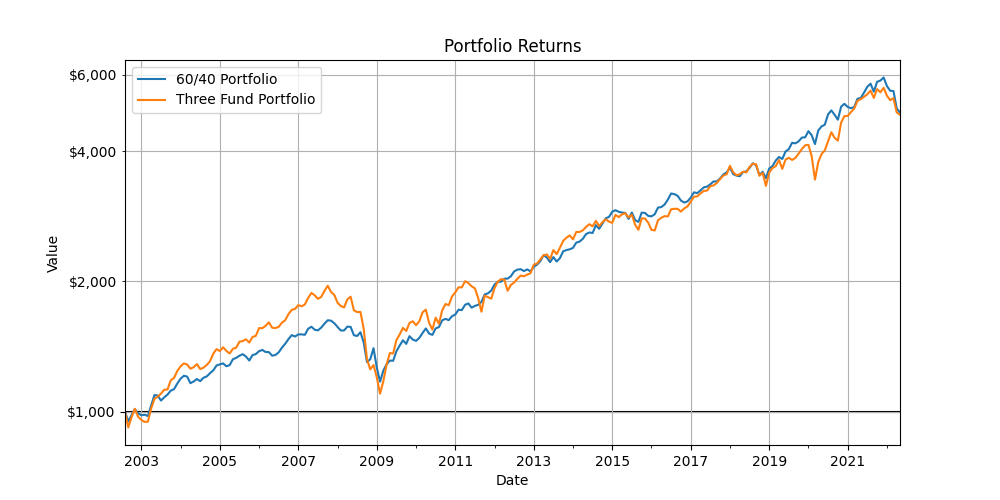
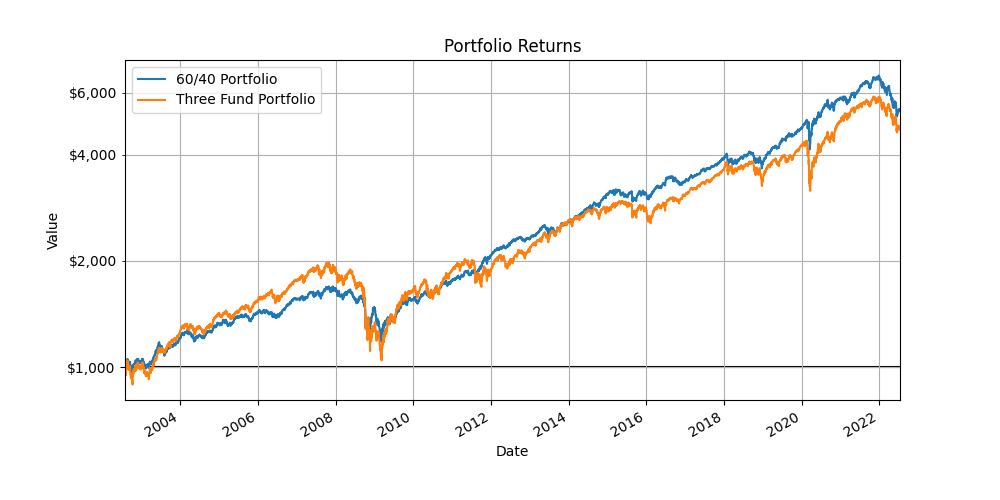
change market data from monthly to daily, add daily and weekly rebalancing

Changed region(s): [[0.062, 0.15, 0.899, 0.99], [0.031, 0.42, 0.124, 0.57], [0.062, 0.12, 0.124, 0.21]]

diff --git a/testfolio/backtest.py b/testfolio/backtest.py
@@ -2,9 +2,9 @@ import yfinance as yf
 import pandas as pd
 import numpy as np
 import pandas_datareader.data as web
-from testfolio.utils import _cagr, _rebalance, _sharpe, _sortino
+from testfolio.utils import _cagr, _rebalance, _sharpe, _sortino, _interpolate_inflation, _is_rebalance_date
 
-REBALANCE_INTERVALS = ('m', 'q', 'y', 'no')
+REBALANCE_INTERVALS = ('d', 'w', 'm', 'q', 'y', 'no')
 ALIAS_TO_TICKER = {
     'S&P 500': 'VFINX',
     'Long Term Treasury': 'VUSTX',
@@ -36,7 +36,7 @@ class Backtest(object):
         tickers: List of strings containing tickers in the backtest.
         adj_inflation: True if prices are adjusted for inflation relative to start_date, False if prices are nominal
             NOTE - Inflation data may not be available for the most recent month, in which case there will be no
-            adjustment for the most recent data point.
+            adjustment for the most recent data points.
         start_date: String representing the start date of the backtest. Defaults to the earliest possible date for which
                     data for all tickers is available, if not specified.
         end_date: Ending date of the backtest. Defaults to today if not specified
@@ -91,7 +91,7 @@ class Backtest(object):
         if start_date:
             start_date = max(start_date, '1985-01-01')
 
-        history = yf.download(self.tickers, interval='1mo', start=start_date, end=end_date, progress=False)
+        history = yf.download(self.tickers, interval='1d', start=start_date, end=end_date, progress=False)
         prices = history['Adj Close' if invest_dividends else 'Close']
 
         if len(self.tickers) == 1:
@@ -110,13 +110,13 @@ class Backtest(object):
         self.end_date = prices.index[-1].strftime('%Y-%m-%d')
 
         if self.start_date >= self.end_date:
-            raise ValueError('Time between start date and end date must be more than 1 month.')
+            raise ValueError('Time between start date and end date must be more than 1 day.')
 
         # Divide each row by the one above it to find percent change
-        monthly_change = prices / prices.shift(1)
+        daily_change = prices / prices.shift(1)
 
         # Initialize starting values
-        hist = pd.DataFrame(index=monthly_change.index, columns=self.tickers + ['Total', 'Drawdown'])
+        hist = pd.DataFrame(index=daily_change.index, columns=self.tickers + ['Total', 'Drawdown'])
         for ticker in self.tickers:
             hist.at[self.start_date, ticker] = self.allocation[ticker] * self.start_val
         hist.at[self.start_date, 'Total'] = self.start_val
@@ -124,24 +124,23 @@ class Backtest(object):
 
         # Download inflation data if necessary
         inflation = web.DataReader('CPIAUCSL', 'fred', self.start_date, self.end_date) if adj_inflation else None
+        inflation = _interpolate_inflation(hist.index, inflation) if adj_inflation else None
 
         # Populate portfolio history
-        prev_date = self.start_date
+        prev_date = pd.to_datetime(self.start_date)
         max_total = self.start_val
-        for date, row in monthly_change.iloc[1:].iterrows():
+        for date, row in daily_change.iloc[1:].iterrows():
             for ticker in self.tickers:
                 hist.at[date, ticker] = hist.at[prev_date, ticker] * row[ticker]
 
                 # Adjust for inflation if necessary
-                if adj_inflation and date in inflation.index:
+                if adj_inflation and prev_date in inflation.index and date in inflation.index:
                     hist.at[date, ticker] *= inflation.at[prev_date, 'CPIAUCSL'] / inflation.at[date, 'CPIAUCSL']
 
             hist.at[date, 'Total'] = hist.loc[date].sum()
 
             # Rebalancing
-            if (self.rebalance == 'm' or
-                    self.rebalance == 'q' and date.is_quarter_start or
-                    self.rebalance == 'y' and date.is_year_start):
+            if _is_rebalance_date(prev_date, date, self.rebalance):
                 _rebalance(hist, date, self.allocation)
 
             # Drawdowns
@@ -157,11 +156,11 @@ class Backtest(object):
         self.max_drawdown = min(hist['Drawdown'])
         self.end_val = hist.loc[self.end_date]['Total']
         self.cagr = _cagr(self.start_val, self.end_val, self.start_date, self.end_date)
-        self.std = np.std(hist['Total'].pct_change().dropna()) * (12 ** 0.5)
+        self.std = np.std(hist['Total'].pct_change().dropna()) * (252 ** 0.5)
 
         # Calculate excess return using 3-month T-Bill as risk-free return
-        tbill_return = yf.download('^IRX', interval='1mo', start=self.start_date, end=self.end_date,
-                                   progress=False)['Close'] * 0.01 / 12  # Don't forget to convert to monthly rate
+        tbill_return = yf.download('^IRX', interval='1d', start=self.start_date, end=self.end_date,
+                                   progress=False)['Close'] * 0.01 / 252  # Don't forget to convert to daily rate
         if adj_inflation:
             tbill_return -= inflation['CPIAUCSL'].pct_change()
 
@@ -171,7 +170,7 @@ class Backtest(object):
         self.sortino = _sortino(excess_return)
 
         # Calculate market correlation using S&P 500
-        market_history = yf.download('VFINX', interval='1mo', start=self.start_date,
+        market_history = yf.download('VFINX', interval='1d', start=self.start_date,
                                      progress=False)['Adj Close'].dropna().pct_change().dropna()
         df = pd.concat([portfolio_return, market_history], axis=1)
         self.correlation = df.corr().iloc[1][0]
@@ -185,20 +184,22 @@ class Backtest(object):
             A pandas.Series object containing the annualized rolling returns of every possible interval. The index value for
             each value corresponds to the end date of the interval it represents.
         """
+        days_in_interval = interval * 21
 
-        if interval >= len(self.hist.index):
+        if days_in_interval >= len(self.hist.index):
             raise ValueError('Interval must be shorter than the duration of the backtest.')
-        if interval <= 0:
+        if days_in_interval <= 0:
             raise ValueError('Interval must be at least 1 month long.')
 
         returns = []
 
-        for i in range(interval, len(self.hist.index)):
-            start_date = self.hist.index[i - interval].strftime('%Y-%m-%d')
+        for i in range(days_in_interval, len(self.hist.index)):
+            start_date = self.hist.index[i - days_in_interval].strftime('%Y-%m-%d')
             end_date = self.hist.index[i].strftime('%Y-%m-%d')
-            returns.append(_cagr(self.hist.iloc[i-interval]['Total'], self.hist.iloc[i]['Total'], start_date, end_date))
+            returns.append(_cagr(self.hist.iloc[i - days_in_interval]['Total'], self.hist.iloc[i]['Total'],
+                                 start_date, end_date))
 
-        return pd.Series(data=returns, index=self.hist.index[interval:])
+        return pd.Series(data=returns, index=self.hist.index[days_in_interval:])
 
     def __str__(self):
         return (

diff --git a/testfolio/utils.py b/testfolio/utils.py
@@ -1,5 +1,6 @@
 # Not intended for external use, only used internally
 import numpy as np
+import pandas as pd
 from datetime import datetime
 
 
@@ -15,10 +16,10 @@ def _rebalance(prices, date, allocation):
 
 
 def _sharpe(excess_return):
-    mean_monthly_return = np.mean(excess_return)
+    mean_daily_return = np.mean(excess_return)
     s = np.std(excess_return)
-    monthly_sharpe = mean_monthly_return / s
-    sharpe = monthly_sharpe * (12 ** 0.5)
+    daily_sharpe = mean_daily_return / s
+    sharpe = daily_sharpe * (252 ** 0.5)
     return sharpe
 
 
@@ -26,7 +27,32 @@ def _sortino(excess_return):
     temp = np.minimum(0, excess_return) ** 2
     temp_expectation = np.mean(temp)
     downside_dev = temp_expectation ** 0.5
-    mean_monthly_return = np.mean(excess_return)
-    monthly_sortino = mean_monthly_return / downside_dev
-    sortino = monthly_sortino * (12 ** 0.5)
+    mean_daily_return = np.mean(excess_return)
+    daily_sortino = mean_daily_return / downside_dev
+    sortino = daily_sortino * (252 ** 0.5)
     return sortino
+
+
+def _interpolate_inflation(dates, inflation):
+    # Convert daily inflation figures to daily using linear interpolation (should be a good enough approximation)
+    daily_inflation = pd.DataFrame()
+    daily_inflation.index = pd.date_range(start=inflation.index[0], end=inflation.index[-1])
+    daily_inflation = pd.concat([daily_inflation, inflation], join='outer', axis=1)
+    daily_inflation['CPIAUCSL'] = daily_inflation['CPIAUCSL'].interpolate(method='linear')
+    daily_inflation = daily_inflation[daily_inflation.index.isin(dates)]
+    return daily_inflation
+
+
+def _is_rebalance_date(prev_date, curr_date, interval):
+    if interval == 'd':
+        return True
+    elif interval == 'w':
+        return prev_date.isocalendar().week != curr_date.isocalendar().week
+    elif interval == 'm':
+        return prev_date.month != curr_date.month
+    elif interval == 'q':
+        return prev_date.quarter != curr_date.quarter
+    elif interval == 'y':
+        return prev_date.year != curr_date.year
+    elif interval == 'no':
+        return False

diff --git a/testfolio/visualize.py b/testfolio/visualize.py
@@ -111,7 +111,7 @@ def graph_rolling_returns(*backtests,
     """ Graphs the annualized rolling returns of any number of backtests over a given interval length.
 
     X-axis corresponds to the interval ending on that date. Y-axis is the annualized return of that interval. The
-    latest start date encompassing the entirety of every backtest will be used.
+    latest start date encompassing the entirety of every backtest will be used. Assumes 1 month = 21 trading days.
 
     Args:
         *backtests: Any number of Backtest objects to be graphed.
@@ -133,6 +133,7 @@ def graph_rolling_returns(*backtests,
     ax.grid(axis='y', which='major')
     ax.grid(axis='x', which='major')
     ax.hlines(y=0, xmin=df.index[0], xmax=df.index[-1], color='k', zorder=0)
+    ax.margins(x=0)
 
     ax.set_ylabel('Annualized Return')
     ax.yaxis.set_major_formatter(ticker.PercentFormatter(xmax=1.0))

diff --git a/README.md b/README.md
@@ -1,5 +1,5 @@
 # testfolio
-<a target="new" href="https://pypi.org/pypi/testfolio"><img border=0 src="https://img.shields.io/pypi/pyversions/testfolio"></a>
+<a target="new" href="https://pypi.org/pypi/testfolio"><img border=0 src="https://img.shields.io/badge/python-3.6%2B-blue"></a>
 <a target="new" href="https://pypi.org/pypi/testfolio"><img border=0 src="https://img.shields.io/pypi/dm/testfolio"></a>
 <a target="new" href="https://pypi.org/pypi/testfolio"><img border=0 src="https://img.shields.io/pypi/v/testfolio"></a>
 <a target="new" href="https://www.codefactor.io/repository/github/bradleyhe/testfolio"><img border=0 src="https://img.shields.io/codefactor/grade/github/BradleyHe/testfolio"></a>
@@ -43,15 +43,15 @@ print(backtest_1)
 Name: 60/40 Portfolio
 Allocation: {'SPY': 0.6, 'TLT': 0.4}
 Starting Value: $1000.00
-Ending Value: $4889.48
-Start Date: 2002-08-01
-End Date: 2022-05-13
-CAGR: 8.35%
-Maximum Drawdown: -27.87%
-STD (annualized): 8.95%
-Sharpe Ratio: 0.81
-Sortino Ratio: 1.23
-Market Correlation: 0.81
+Ending Value: $5390.85
+Start Date: 2002-07-30
+End Date: 2022-07-15
+CAGR: 8.80%
+Maximum Drawdown: -30.48%
+STD (annualized): 10.32%
+Sharpe Ratio: 0.76
+Sortino Ratio: 1.08
+Market Correlation: 0.84
 -----------------------------------------------
 ```
 
@@ -61,8 +61,9 @@ backtest = Backtest(
             # Must be a dictionary with ticker keys corresponding to allocation percentages that sum to 1.
             allocation, 
     
-            # Portfolios are rebalanced quarterly by default. Other options include 'm' (monthly), 'y' (yearly), and 
-            # 'no' (no rebalancing)
+            # Portfolios are rebalanced quarterly by default. Other options include 'd' (daily), 'w' (weekly),
+            # 'm' (monthly), 'q' (quarterly), 'y' (yearly), and 'no' (no rebalancing). Rebalancing occurs on the first 
+            # day of the specified interval.
             rebalance='q', 
             
             # Must be in YYYY-mm-dd string format. Set to the earliest possible date when all tickers existed by 
@@ -103,12 +104,13 @@ ALIAS_TO_TICKER = {
 }
 ```
 In addition to the attributes set during creation, Backtest objects have the following attributes and functions:
+
 ```python
 backtest = Backtest(allocation)
 
 # pandas DataFrame containing the value of the portfolio every month. Columns include each of the tickers, the total 
 # portfolio value, and drawdown.
-backtest.hist 
+backtest.hist
 
 # Maximum drawdown 
 backtest.max_drawdown
@@ -116,7 +118,7 @@ backtest.max_drawdown
 # Compound annual growth rate 
 backtest.cagr
 
-# Annualized standard deviation of returns
+# Annualized standard deviation of daily returns
 backtest.std
 
 # Sharpe ratio (using 3 month T-Bill as risk free asset)
